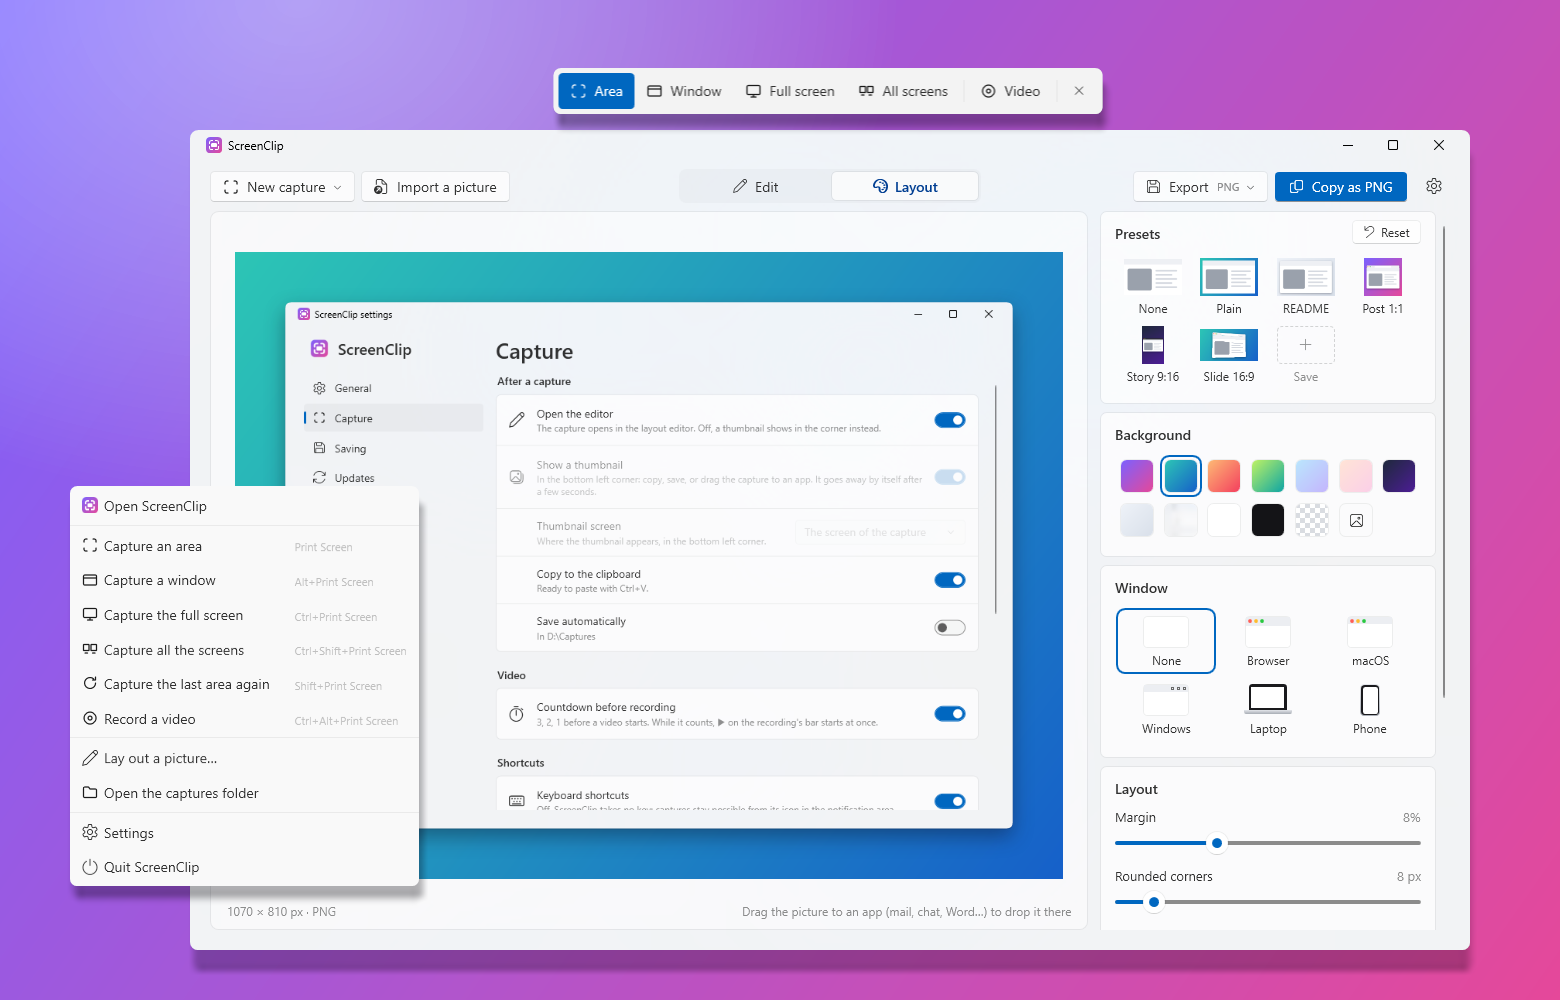
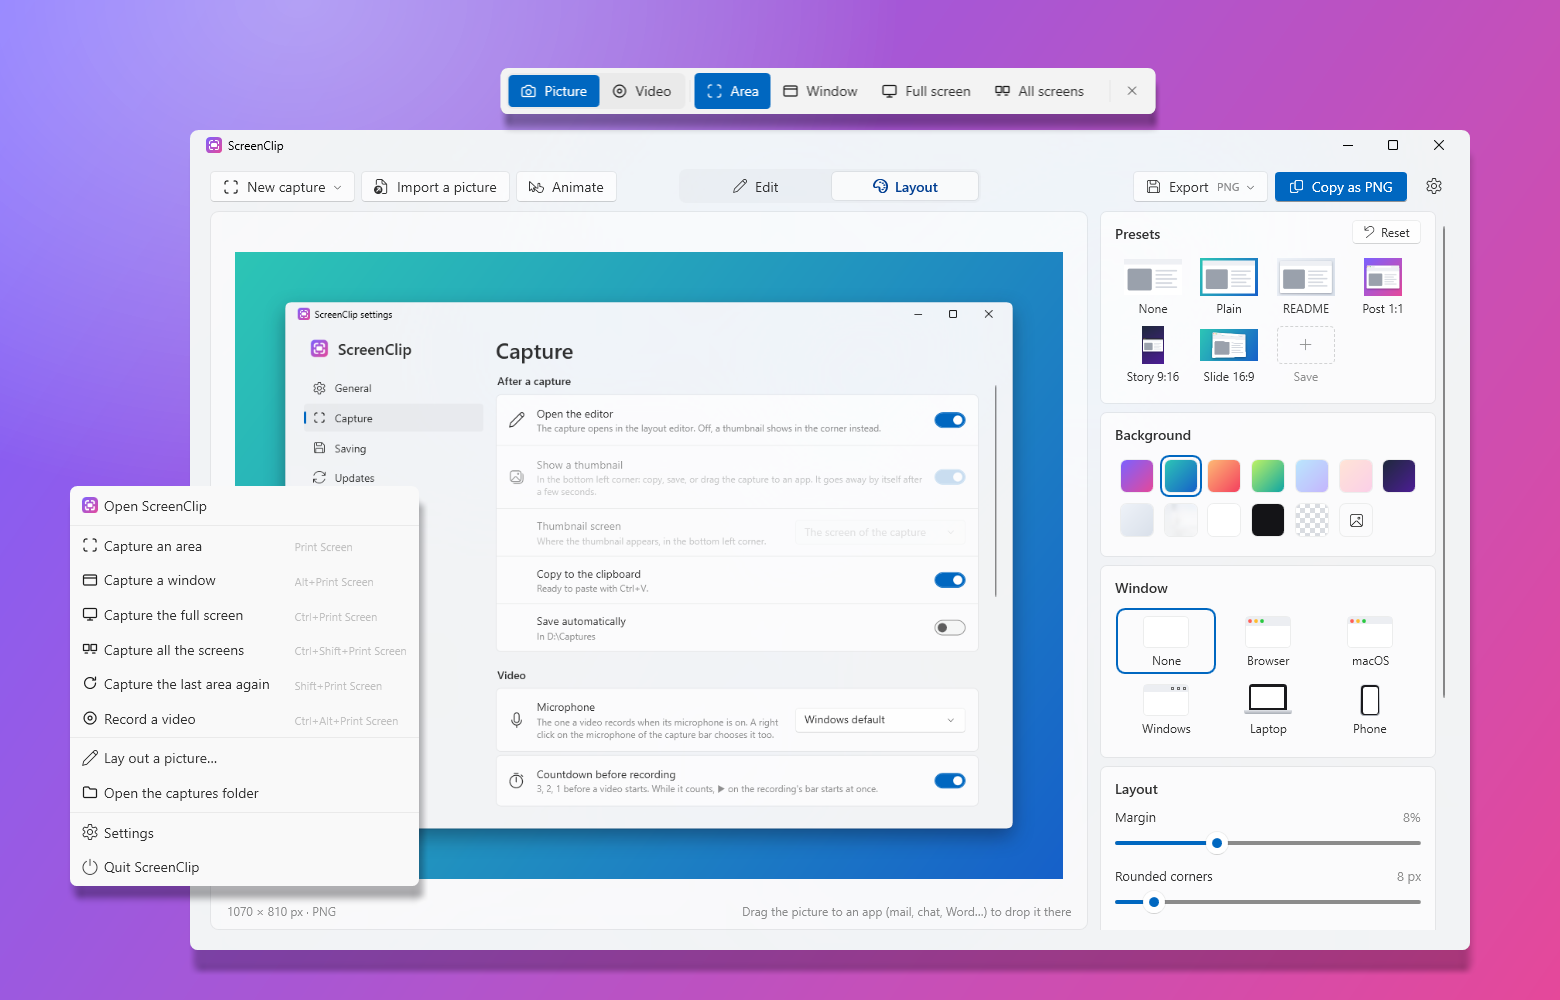
README pictures retaken after video step 3
- The main picture, the area selection, the Edit tab and the video editor retaken
  from the current app, in English and French: the capture bar's Picture | Video
  switch, Animate in the editor, the microphone card in Settings, the points where
  a moving pointer clicks.
- The demo GIF drawn again from these pieces.

diff --git a/CLAUDE.md b/CLAUDE.md
@@ -312,8 +312,8 @@ and posted messages, fictitious save folder `D:\Captures`; it takes the Settings
 `demo-<lang>.png` first, then lays it out in the editor's Layout tab; the menu is opened with `WM_CONTEXTMENU`, since
 a left click on the icon captures; the capture bar over the made-up desktop of `SCREENCLIP_DEMO_SCREEN`, not the real
 screen) then `.local\readme\compose.ps1` (System.Drawing); `.local\README.md` lists the local tools. Retake them
-when the UI changes (last: October 26, 2026, all six and the new video one: Export, Copy as PNG, the Video mode,
-Open ScreenClip in the menu).
+when the UI changes (last: October 26, 2026, evening, all of them and the demo GIF after step 3: the capture bar's
+Picture | Video switch, Animate, the microphone card; the capture bar is cut from its switch, `Picture` / `Image`).
 
 `.github/edit.png` / `edit.fr.png` (1600 × 1068, under the Edit tab in the READMEs): the real Edit tab on the
 Settings capture (`pieces\demo-<lang>.png`), annotated by the Debug script player: `.local\readme\edit\edit-<lang>.txt`
@@ -343,7 +343,8 @@ with the repository). `dotnet run -c Release` writes `.local\readme\demo\out\scr
 30 fps, 3 Mbit/s, ~7 MB, Media Foundation: for GitHub's own video player, uploaded by the author, under 10 MB) then
 the GIF with Core's `GifEncoder`, its frames drawn at full size and halved (small text stays readable) and brought
 to 5 bits a channel by an ordered dither first (the author found the first GIF banded: the gradients now mix two
-steps; ~3 MB → ~5 MB); `--preview 3.75 9.6 …` writes frames as PNG, `--mp4` the MP4 alone. Retake the
+steps; ~3 MB → ~5 MB); `--preview 3.75 9.6 …` writes frames as PNG, `--mp4` the MP4 alone. The demo written
+before is copied to `.local\readme\demo\archive` (dated) first (asked by the author: kept just in case). Retake the
 pieces first when the UI changes.
 
 `.github/selection.png` / `selection.fr.png` (1600 × 951, under “Capture” in the READMEs; asked by the author from the
